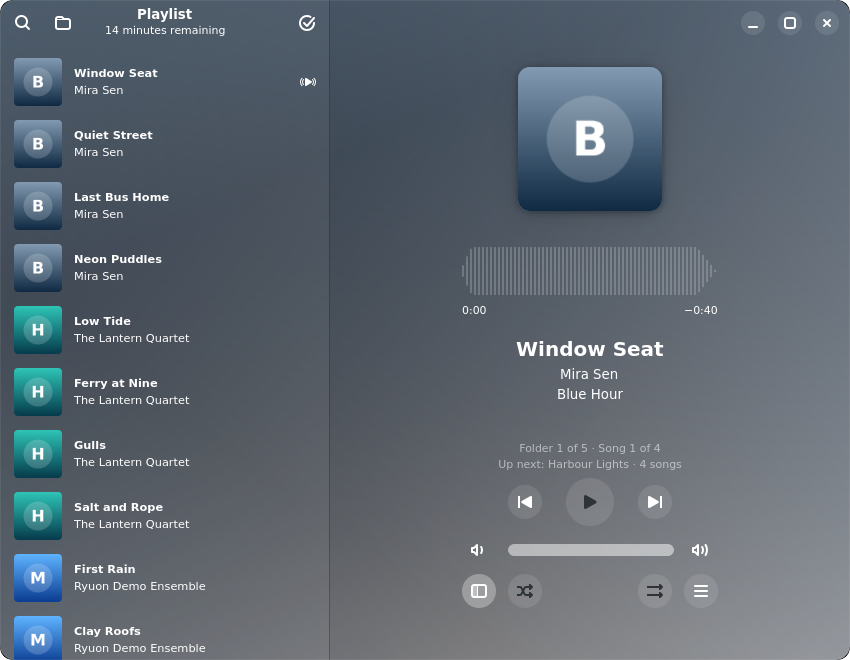
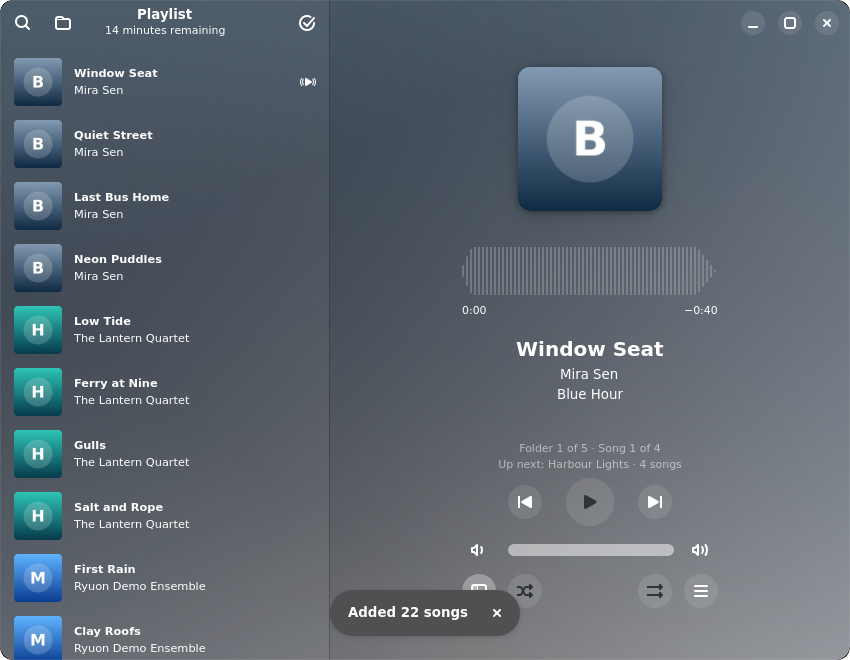
README: screenshots section with a phone view, build steps marked for developers, one credit line

Changed region(s): [[0.3671, 0.8788, 0.6118, 0.9697]]

diff --git a/tools/screenshots.py b/tools/screenshots.py
@@ -44,16 +44,7 @@ def shot(path):
     os.remove(raw)
 
 
-def main(library, out):
-    if owned():
-        sys.exit('Close Ryuon first.')
-    os.makedirs(out, exist_ok=True)
-    tmp = tempfile.mkdtemp(prefix='ryuon-shots-')
-    cfg = os.path.join(tmp, 'config', 'glib-2.0', 'settings')
-    os.makedirs(cfg)
-    with open(os.path.join(cfg, 'keyfile'), 'w') as f:
-        f.write(f"[io/github/k_s_harish_balagi/Ryuon]\nlibrary-path='{SHOWN}'\nlibrary-autoload=true\n"
-                "window-width=900\nwindow-height=640\n")
+def launch(library, tmp):
     # `flatpak run` would force the user's own config folders; run the release build folder
     # instead, where the throwaway folders apply
     build = os.path.join(os.path.dirname(os.path.dirname(os.path.abspath(__file__))), '_flatpak-build')
@@ -68,14 +59,37 @@ def main(library, out):
             break
         time.sleep(0.5)
     time.sleep(5)
+
+
+def main(library, out):
+    if owned():
+        sys.exit('Close Ryuon first.')
+    os.makedirs(out, exist_ok=True)
+    tmp = tempfile.mkdtemp(prefix='ryuon-shots-')
+    cfg = os.path.join(tmp, 'config', 'glib-2.0', 'settings')
+    os.makedirs(cfg)
+    with open(os.path.join(cfg, 'keyfile'), 'w') as f:
+        f.write(f"[io/github/k_s_harish_balagi/Ryuon]\nlibrary-path='{SHOWN}'\nlibrary-autoload=true\n"
+                "window-width=900\nwindow-height=640\n")
+    launch(library, tmp)
     sh('wmctrl', '-ir', window(), '-e', '0,-1,-1,900,640')
     time.sleep(2)
     shot(os.path.join(out, 'playing.png'))
-    act('show-folders', wait=2)
+    act('show-folders', wait=4)
     shot(os.path.join(out, 'folders.png'))
-    act('show-folders')
-    act('test-preferences', wait=2)
+    act('show-folders', wait=3)
+    act('test-preferences', wait=4)
     shot(os.path.join(out, 'preferences.png'))
+    # phone-sized layout: close the dialog by restarting the view at 360 px wide
+    act('quit', path='/io/github/k_s_harish_balagi/Ryuon', wait=1)
+    for _ in range(40):
+        if not owned():
+            break
+        time.sleep(0.25)
+    launch(library, tmp)
+    sh('wmctrl', '-ir', window(), '-e', '0,-1,-1,360,720')
+    time.sleep(3)
+    shot(os.path.join(out, 'phone.png'))
     act('quit', path='/io/github/k_s_harish_balagi/Ryuon')
     print('screenshots in', out)
 

diff --git a/README.md b/README.md
@@ -10,8 +10,6 @@ SPDX-License-Identifier: GPL-3.0-or-later
 **A music player for people who keep their music in folders.** Choose your music folder once,
 and Ryuon plays it one folder after another, picking up where you stopped the next time.
 
-![Ryuon playing a library folder by folder](data/screenshots/playing.png)
-
 - **Folder by folder:** "Folder 7 of 139 · Song 4 of 10", and what plays next
 - **Resume:** reopens on the song and second where you stopped
 - **Reorder:** play next, move songs or whole folders, undo
@@ -22,8 +20,20 @@ and Ryuon plays it one folder after another, picking up where you stopped the ne
 - **Rename on disk (optional):** gives the files those tidy names, with a preview and full undo
 - Album-art colours, media keys and desktop media controls, phone-sized layout
 
-Ryuon runs on Linux as a Flatpak. It is a fork of [Amberol](https://gitlab.gnome.org/World/amberol)
-by Emmanuele Bassi.
+Ryuon runs on Linux (desktop and phone) as a Flatpak.
+
+## Screenshots
+
+| Playing, folder by folder | Folders view |
+|---|---|
+| ![Playing a library folder by folder](data/screenshots/playing.png) | ![The Folders view lists every album with its song count](data/screenshots/folders.png) |
+
+| Preferences | On a phone |
+|---|---|
+| ![Preferences: library, folder order, tidy names, playback](data/screenshots/preferences.png) | <img src="data/screenshots/phone.png" width="240" alt="The same player at phone width"> |
+
+The window takes its colours from the album art. The screenshots use a generated demo library
+(`tools/make_demo_library.py`), not real albums.
 
 ## Install
 
@@ -89,9 +99,16 @@ flatpak override --user --filesystem=/path/to/Music io.github.k_s_harish_balagi.
 Before renaming, check that nothing else depends on the current names, for example playlists
 in other players or a media server that tracks files by path.
 
-## Build from source
+## Reporting problems
 
-You need `flatpak` and `flatpak-builder`, and the Flathub remote.
+Open an [issue](https://github.com/K-S-Harish-Balagi/ryuon/issues) with what you did, what you
+expected and what happened. Output from `flatpak run io.github.k_s_harish_balagi.Ryuon` in a
+terminal helps.
+
+## Build from source (developers only)
+
+You do **not** need this to use Ryuon: the release file above is all a user needs. Building is
+for changing the code. You need `flatpak`, `flatpak-builder` and the Flathub remote.
 
 ```sh
 git clone https://github.com/K-S-Harish-Balagi/ryuon.git
@@ -107,24 +124,14 @@ after changing dependencies). Development tools and tests are described in
 [`tools/README.md`](tools/README.md); `tools/make_demo_library.py` makes a small copyright-free
 library to try things with.
 
-## Reporting problems
-
-Open an [issue](https://github.com/K-S-Harish-Balagi/ryuon/issues) with what you did, what you
-expected and what happened. Output from `flatpak run io.github.k_s_harish_balagi.Ryuon` in a
-terminal helps.
-
-## How this fork was made
+## How it was made
 
 Ryuon's own features (library, reordering, tidy names, renaming, sorting, Folders view and
 Preferences, about 3,000 lines of Rust and the tests in `tools/`) were written with the help of
-an AI coding assistant, Claude by Anthropic, under the direction of and reviewed by the
-maintainer. Amberol's original code is unchanged apart from the renaming and the hooks these
-features need.
+an AI coding assistant, Claude by Anthropic, directed and reviewed by the maintainer.
 
-## Credit and licence
+## Licence and credit
 
-Ryuon is built on Amberol by Emmanuele Bassi and its contributors; their code keeps its original
-copyright. Upstream's history is in `CHANGES.md`. Translations come from Amberol's translators.
-
-GPL-3.0-or-later, see `LICENSES/`. The Ryuon name, logo and icons are original artwork made for
-this project. The screenshots use the generated demo library, not real albums.
+GPL-3.0-or-later, see `LICENSES/`. The name, logo and icons are original artwork for this
+project. Ryuon is a modified version of [Amberol](https://gitlab.gnome.org/World/amberol) by
+Emmanuele Bassi and contributors, whose code keeps its copyright (history in `CHANGES.md`).
